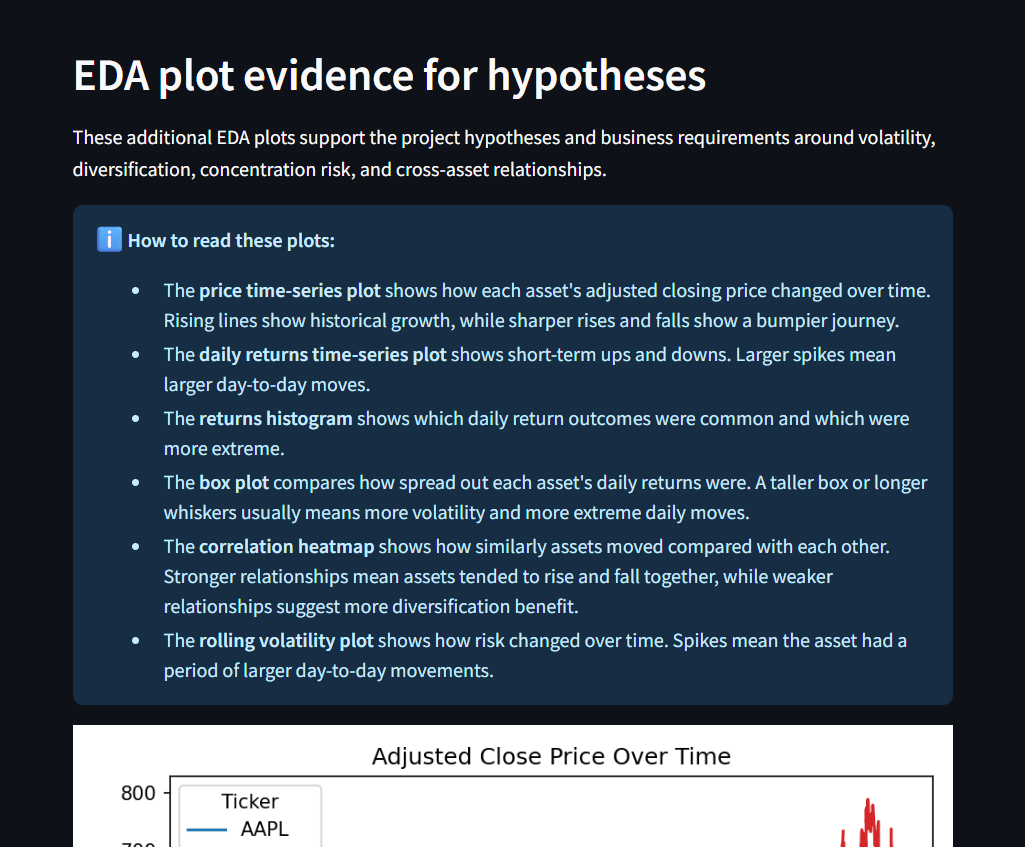
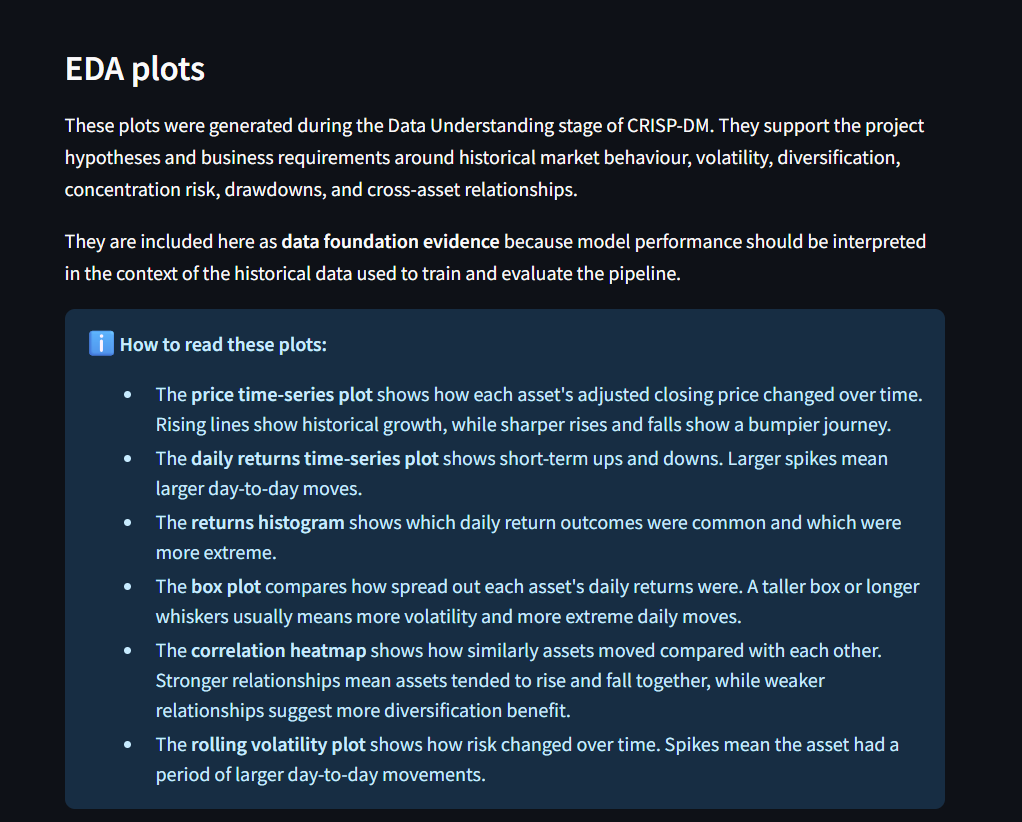
Update TESTING User Story Testing section

diff --git a/TESTING.md b/TESTING.md
@@ -313,6 +313,7 @@ This Epic covers the `app_pages/home.py` page, which introduces StockMetrics and
 | As a beginner investor | I want a welcoming title and inspirational quote | so I feel motivated to begin my investing journey. | ![screenshot](documentation/dashboard/home_title_intro.png) |
 | As a beginner investor | I want a clear Home page introduction and hero image | so I understand that StockMetrics helps explain risk, returns, and uncertainty without overwhelming me. | ![screenshot](documentation/dashboard/home_hero_image.png) |
 | As a beginner investor | I want the app purpose and audience explained | so I understand how StockMetrics helps beginners in more detail. | ![screenshot](documentation/dashboard/home_purpose_section.png) |
+| As a beginner investor | I want a clear dataset summary on the Home page | so I understand which ETFs and technology stocks are used before exploring the dashboard. | ![screenshot](documentation/dashboard/home_dataset_summary.png) |
 | As an assessor | I want a project validation summary on the dashboard | so I can quickly see how business requirements and hypotheses are supported by dashboard evidence. | ![screenshot](documentation/dashboard/home_validation_summary.png) |
 | As a beginner investor | I want core investing principles displayed | so I can learn the basic ideas of starting early, thinking long-term, and diversifying. | ![screenshot](documentation/dashboard/home_core_principles.png) |
 | As a beginner investor | I want a plain-English glossary | so I can understand key investing terms. | ![screenshot](documentation/dashboard/home_glossary.png) |
@@ -396,6 +397,7 @@ This Epic covers the `app_pages/model_performance.py` page, which presents model
 | As a technical reviewer | I want a clear Model Performance introduction and hero image | so I understand the purpose of the page. | ![screenshot](documentation/dashboard/model_intro_hero.png) |
 | As a technical reviewer | I want the next-day prediction task explained | so I understand what the model is trying to predict. | ![screenshot](documentation/dashboard/model_task_explanation.png) |
 | As a technical reviewer | I want the business case result displayed clearly | so I can see whether the model met its success rule. | ![screenshot](documentation/dashboard/model_business_case.png) |
+| As a technical reviewer | I want a clear ML pipeline overview | so I can understand how the project moves from data collection through training, evaluation, and dashboard deployment. | ![screenshot](documentation/dashboard/model_pipeline_overview.png) |
 | As a technical reviewer | I want model reproducibility explained | so I understand the displayed result reflects the saved dataset and model artefacts for this project version. | ![screenshot](documentation/dashboard/model_reproducibility.png) |
 | As a technical reviewer | I want train and test evaluation metrics displayed | so I can assess model performance. | ![screenshot](documentation/dashboard/model_metrics.png) |
 | As a technical reviewer | I want plain-English explanations of R², MAE, and RMSE | so the metrics are understandable in context. | ![screenshot](documentation/dashboard/model_metrics_explained.png) |
@@ -403,10 +405,12 @@ This Epic covers the `app_pages/model_performance.py` page, which presents model
 | As a technical reviewer | I want the model limitations explained | so I understand why short-term prediction is difficult. | ![screenshot](documentation/dashboard/model_limitations.png) |
 | As a technical reviewer | I want the best hyperparameters displayed | so I can inspect the tuned model settings. | ![screenshot](documentation/dashboard/model_hyperparameters.png) |
 | As a technical reviewer | I want the full hyperparameter search space displayed | so I can verify that the final model tuning used six hyperparameters with three values each. | ![screenshot](documentation/dashboard/model_search_space.png) |
-| As a technical reviewer | I want evaluation plots displayed | so I can visually assess model behaviour and prediction errors. | ![screenshot](documentation/dashboard/model_plots.png) |
-| As a technical reviewer | I want EDA plot evidence displayed | so I can connect the dashboard evidence to the project hypotheses around volatility, diversification, and concentration risk. | ![screenshot](documentation/dashboard/model_eda_evidence.png) |
+| As a technical reviewer | I want a model evaluation and data foundation evidence section | so I can see how CRISP-DM evaluation outputs and EDA evidence are brought together in the dashboard. | ![screenshot](documentation/dashboard/model_evidence_intro.png) |
+| As a technical reviewer | I want ML evaluation plots grouped in their own tab | so I can inspect actual-vs-predicted plots, residual plots, and prediction time-series evidence. | ![screenshot](documentation/dashboard/model_ml_evaluation_evidence.png) |
+| As a technical reviewer | I want EDA plots grouped in their own tab | so I can connect volatility, diversification, correlation, and concentration-risk evidence to the project hypotheses. | ![screenshot](documentation/dashboard/model_eda_evidence.png) |
 | As a technical reviewer | I want feature importance displayed | so I can see which features influenced the model most. | ![screenshot](documentation/dashboard/model_feature_importance.png) |
 | As a technical reviewer | I want a final ML model summary | so I can understand the overall model conclusion. | ![screenshot](documentation/dashboard/model_summary.png) |
+| As a technical reviewer | I want a project conclusion on the Model Performance page | so I can understand the overall findings from the model evaluation, EDA evidence, hypotheses, and business requirements. | ![screenshot](documentation/dashboard/project_conclusion.png) |
 
 ---
 
